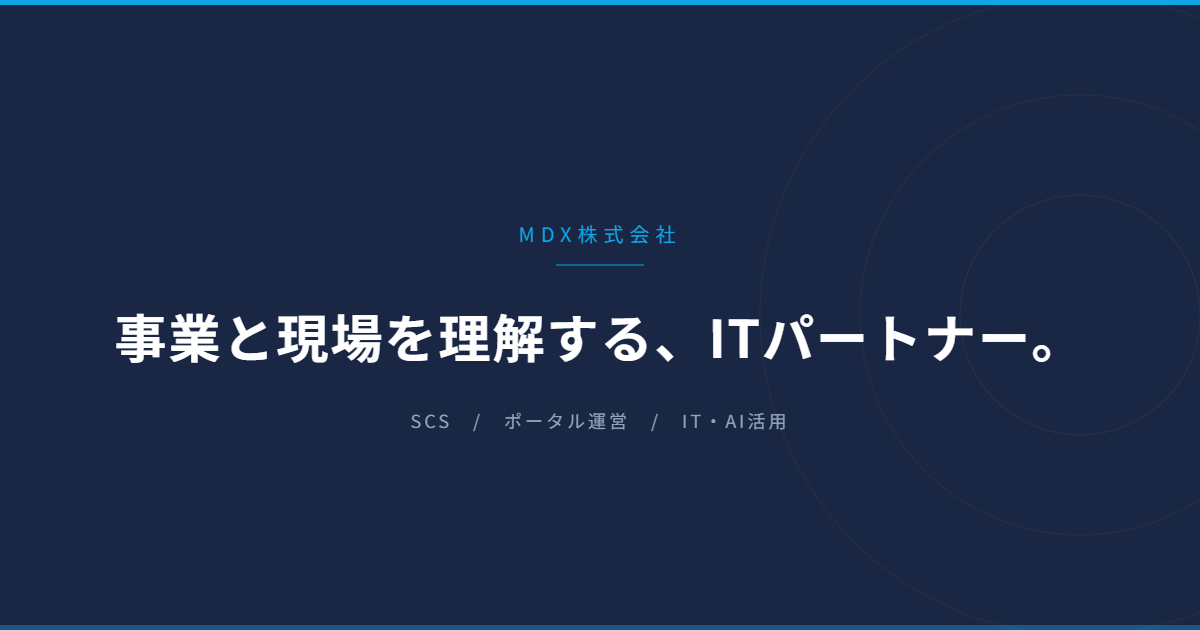
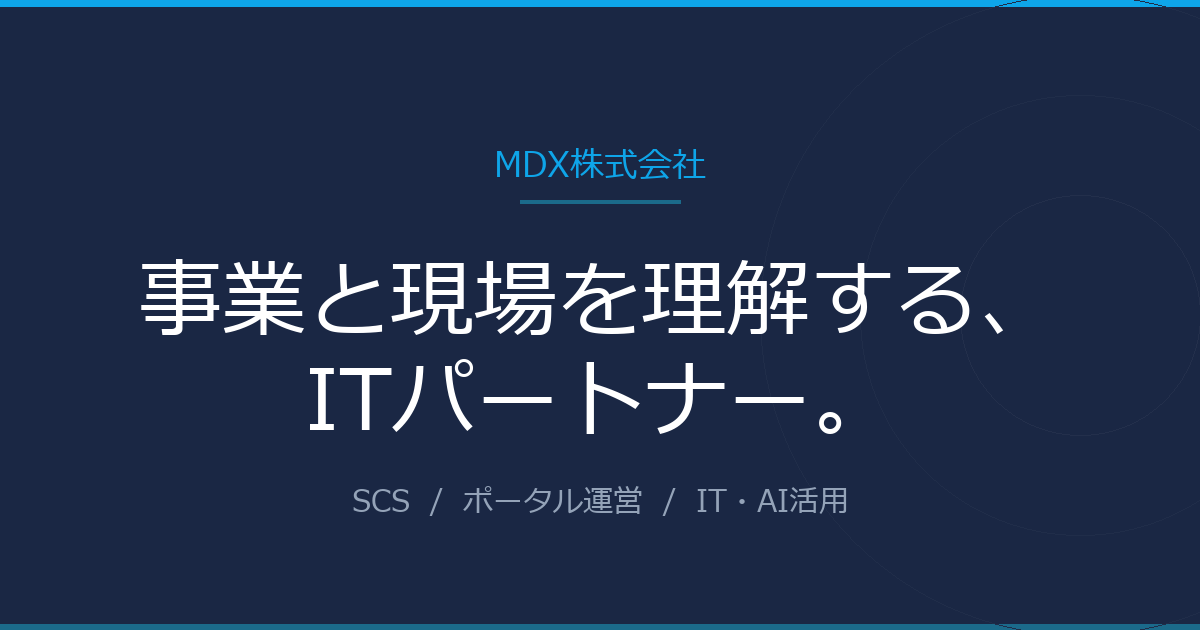
OGP画像の文字サイズ拡大・メタ情報のtitle/description拡充

diff --git a/index.html b/index.html
@@ -3,17 +3,17 @@
 <head>
   <meta charset="UTF-8" />
   <meta name="viewport" content="width=device-width, initial-scale=1.0" />
-  <title>MDX株式会社 | 事業と現場を理解するITパートナー — SCS対応・ポータル運営・AI活用支援</title>
-  <meta name="description" content="MDX株式会社は、SCS事業・ポータルサイト運営・IT/AI活用支援・業務改善の4領域で、中小企業や医療・介護事業者の業務課題を解決するBtoB企業です。現場の業務理解と継続的な伴走支援が強みです。" />
+  <title>MDX株式会社 | 事業と現場を理解するITパートナー — SCS対応・ポータル運営・IT/AI活用支援</title>
+  <meta name="description" content="MDX株式会社は、SCS事業・ポータルサイト運営・IT/AI活用支援・業務改善の4領域で、中小企業や医療・介護事業者の業務課題を解決するBtoB企業です。現場の業務理解と継続的な伴走支援が強みです。お気軽にご相談ください。" />
   <meta property="og:type" content="website" />
-  <meta property="og:title" content="MDX株式会社 | 事業と現場を理解するITパートナー — SCS対応・ポータル運営・AI活用支援" />
-  <meta property="og:description" content="MDX株式会社は、SCS事業・ポータルサイト運営・IT/AI活用支援・業務改善の4領域で、中小企業や医療・介護事業者の業務課題を解決します。現場理解に基づく伴走型支援が強みです。" />
+  <meta property="og:title" content="MDX株式会社 | 事業と現場を理解するITパートナー — SCS対応・ポータル運営・IT/AI活用支援" />
+  <meta property="og:description" content="MDX株式会社は、SCS事業・ポータルサイト運営・IT/AI活用支援・業務改善の4領域で、中小企業や医療・介護事業者の業務課題を解決するBtoB企業です。現場の業務フローを理解した上で、導入から運用・定着まで一貫して支援します。まずはお気軽にご相談ください。" />
   <meta property="og:site_name" content="MDX株式会社" />
   <meta property="og:url" content="https://mdx-inc.co.jp/" />
   <meta property="og:image" content="https://mdx-inc.co.jp/assets/ogp/ogp.png" />
   <meta name="twitter:card" content="summary_large_image" />
-  <meta name="twitter:title" content="MDX株式会社 | 事業と現場を理解するITパートナー — SCS対応・ポータル運営・AI活用支援" />
-  <meta name="twitter:description" content="MDX株式会社は、SCS事業・ポータルサイト運営・IT/AI活用支援・業務改善の4領域で、中小企業や医療・介護事業者の業務課題を解決します。現場理解に基づく伴走型支援が強みです。" />
+  <meta name="twitter:title" content="MDX株式会社 | 事業と現場を理解するITパートナー — SCS対応・ポータル運営・IT/AI活用支援" />
+  <meta name="twitter:description" content="MDX株式会社は、SCS事業・ポータルサイト運営・IT/AI活用支援・業務改善の4領域で、中小企業や医療・介護事業者の業務課題を解決するBtoB企業です。現場の業務フローを理解した上で、導入から運用・定着まで一貫して支援します。まずはお気軽にご相談ください。" />
   <meta name="twitter:image" content="https://mdx-inc.co.jp/assets/ogp/ogp.png" />
   <!-- TODO: favicon.ico をルートに配置してください（配置後すぐ反映されます） -->
   <link rel="icon" href="/favicon.ico" />
